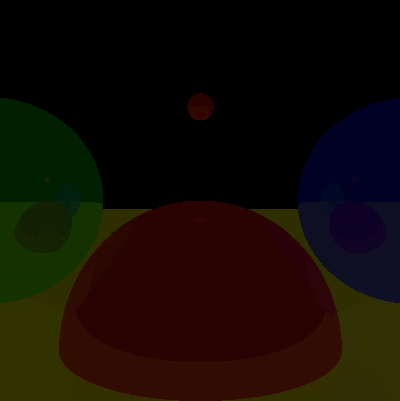
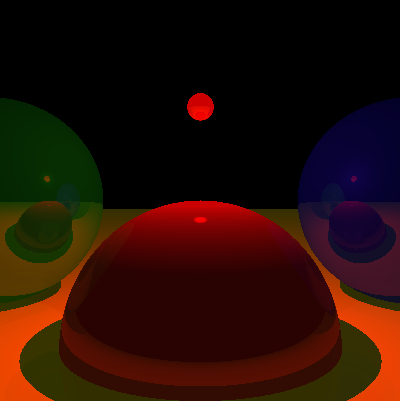
Now we finally have a lighning source (as a sphere).

Changed region(s): [[0.0, 0.389, 1.0, 1.0], [0.45, 0.2095, 0.54, 0.2993], [0.09, 0.419, 0.12, 0.4489]]

diff --git a/ray_trace/mainwindow.cpp b/ray_trace/mainwindow.cpp
@@ -29,7 +29,7 @@ std::vector<int> BG_COLOR = {0, 0, 0};
 
 
 Light l1 = {Light::type::ambient, {0.2, 0.2, 0.2}};
-Light l2 = {Light::type::point, {1, 1, 1}, {0, 0.7, 3}};
+Light l2 = {Light::type::point, {1, 0.1, 0.1}, {0, 0.7, 3}};
 //Light l3 = {Light::type::directional, 0.2, {}, {1 , 4, 4}};
 std::vector<Light> lights = {l1, l2};
 
@@ -38,7 +38,9 @@ Sphere* s2 = new Sphere {{2, 0, 4}, 1, {10, 10, 255}, 10, 0.3, 0.5};
 Sphere* s3 = new Sphere {{-2, 0, 4}, 1, {10, 255, 10}, 100, 0.4, 0.5};
 Sphere* s4 = new Sphere {{0, -5001, 0}, 5000, {255, 255, 0}, 1000, 0.1, 0.5};
 Sphere* s5 = new Sphere {{0, 1, 4}, 1, {10, 255, 10}, 100, 0.4, 0.5};
-Sphere* lightSphere = new Sphere {{l2.position[0], l2.position[1], l2.position[2]}, 0.1, {255, 0, 0}, 500, 0.2, 0.5, Object::type::sphereSouceColor};
+Sphere* lightSphere = new Sphere {{l2.position[0], l2.position[1], l2.position[2]}, 0.1, {255 * (int) l2.color_intensity[0],
+                                                                                          255 * (int) l2.color_intensity[1],
+                                                                                          255 * (int) l2.color_intensity[2]}, 500, 0.2, 0.5, Object::type::sphereSouceColor};
 
 //double A, double B,
 //double C, double D,

diff --git a/ray_trace/ray_tracing_functions.cpp b/ray_trace/ray_tracing_functions.cpp
@@ -57,7 +57,8 @@ std::vector<double> ComputeLightning(const std::vector<double>& P,
             Object* closest_shadow_object = nullptr;
             ClosestIntersection(P, L, 1E-3, t_max, shadow_t, closest_shadow_object, objects);
             if (closest_shadow_object != nullptr) {
-                continue;
+                if (closest_shadow_object->object_type != Object::type::sphereSouceColor)
+                    continue;
             }
 
             // Diffusual
@@ -115,6 +116,9 @@ std::vector<int> TraceRay(const std::vector<double>& O,
         N = {N[0] / VectorLength(N),
              N[1] / VectorLength(N),
              N[2] / VectorLength(N)};
+        if (closest_object->object_type == Object::type::sphereSouceColor) {
+            N = VectorMult(N, -1);
+        }
     } else if (closest_object->object_type == Object::type::plane) {
 //        if (P[0] >= closest_object->getMinX() && P[0] <= closest_object->getMaxX() &&
 //            P[1] >= closest_object->getMinY() && P[1] <= closest_object->getMaxY() &&
